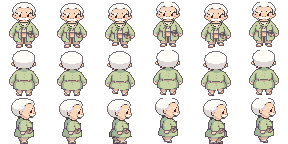
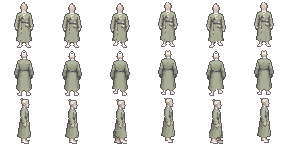
대장장이 · 연금술사 새 그림: 사용자 AI 그림 (6~7등신, 키 46px)
Claude-Session: https://claude.ai/code/session_01Wh6fWXe5c1WEsJLxP6eT5s

diff --git a/tools/import_ai_character.py b/tools/import_ai_character.py
@@ -31,6 +31,8 @@
         · 뱃사공 ferryman · 이장 chief. 뱃사공 · 이장은 부위 지도가 생기면 make_naru_sheets / make_hall_sheets 가 덮어쓰지 않는다.
   농부 (2026-10-04): villagers/ai/farmer.png --name player --height 46 --width 18 --tall --bare --clear-pockets --keep-hue --sat 1.0 --hair-span 0.2 --front-hair 0.2
   사냥꾼 (2026-10-04): villagers/ai/hunter.png --name hunter --height 46 --width 18 --tall --keep-hue --sleeves --hair-span 0.55 --front-hair 0.3 --dark-hair 0.3
+  대장장이 (2026-10-04): villagers/ai/smith.png --name smith --height 46 --width 20 --tall --keep-hue --dark-pants --hair-span 0.2 --front-hair 0.2
+  연금술사 (2026-10-04): villagers/ai/alchemist.png --name alchemist --height 46 --width 20 --tall --keep-hue --hair-span 0.2 --front-hair 0.2
   확인: python3 tools/people_lineup.py 비교.png (모두 한 줄로 세운 4배 그림)
 """
 import argparse
